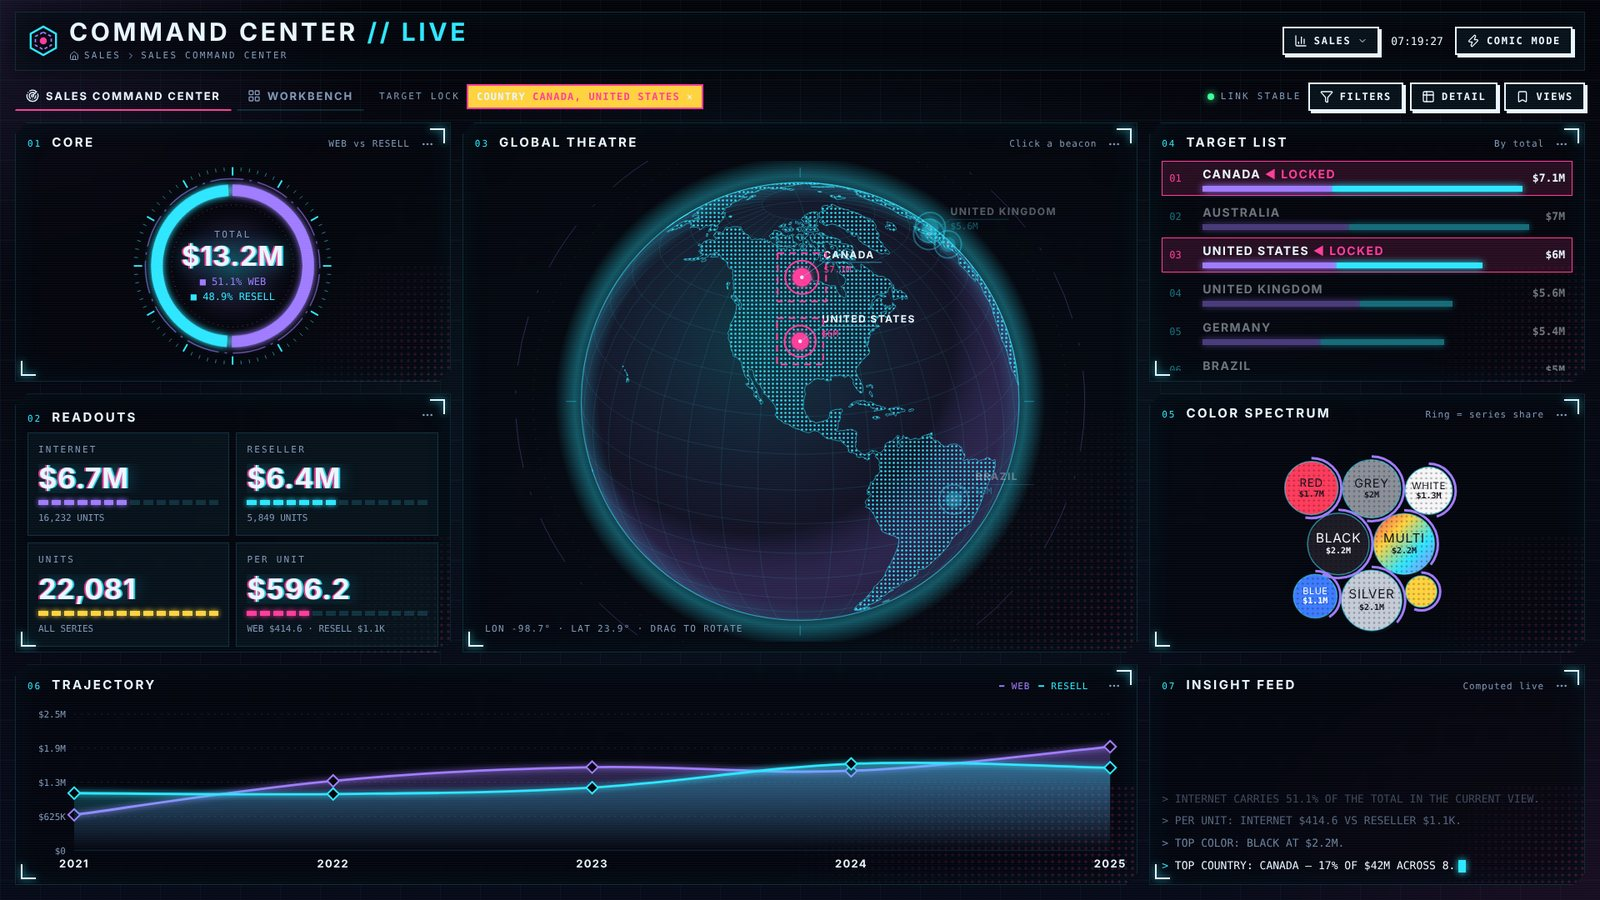
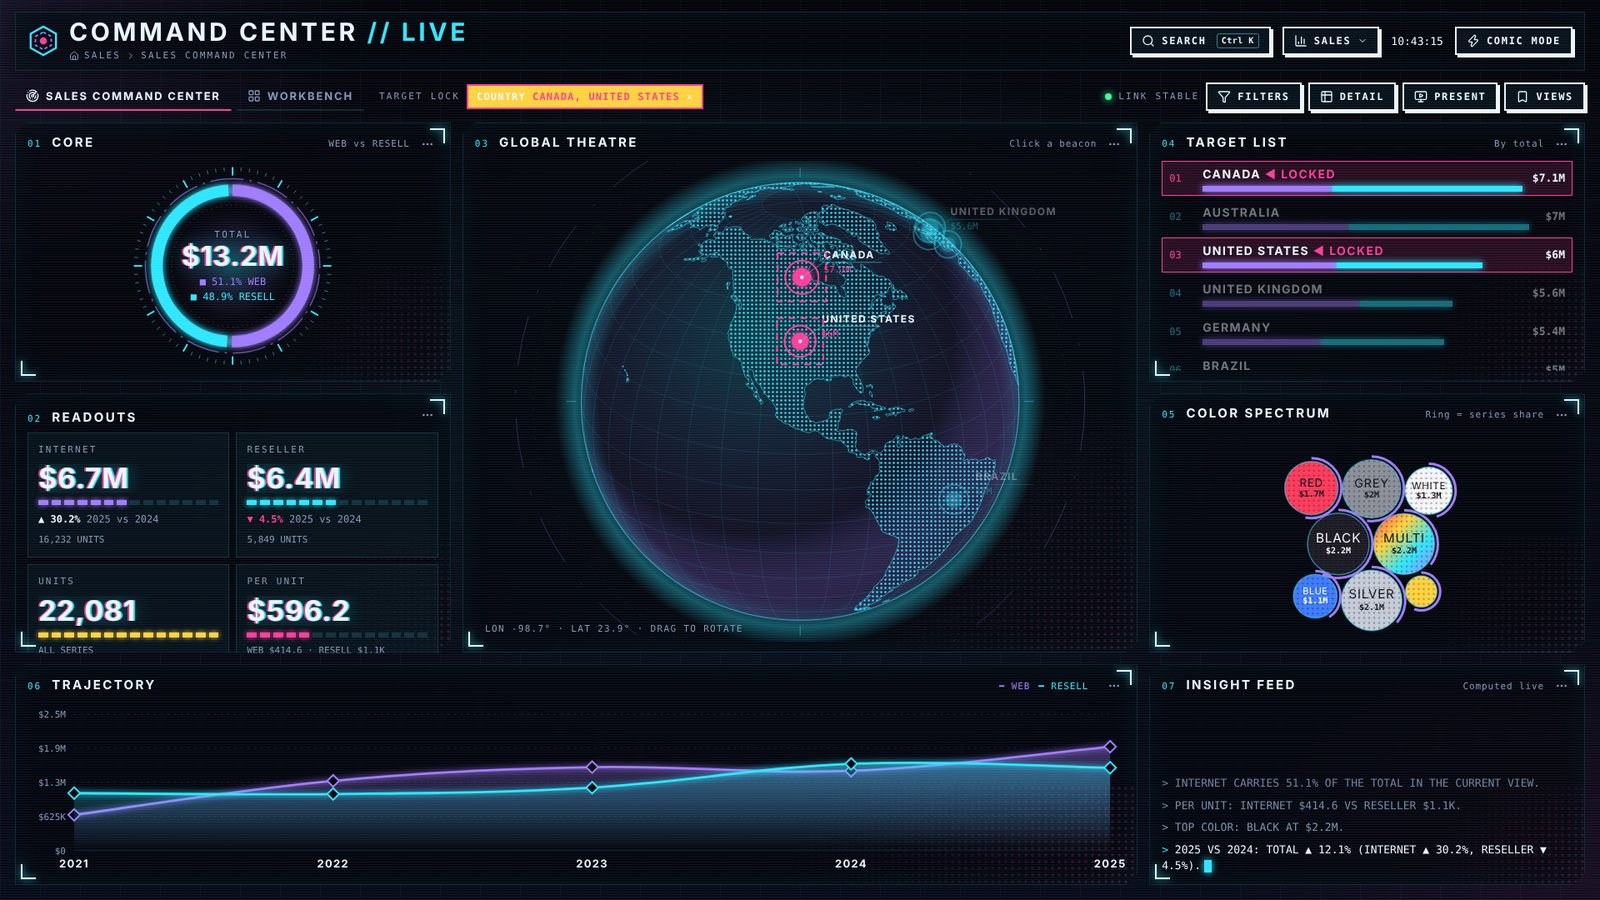
docs: document search, pins, period compare, presentation, setup and Brand Studio
Also refreshes README screenshots, adds the accessibility rule to AGENTS.md
and steadies a sign-out test that timed out on a busy runner.

Claude-Session: https://claude.ai/code/session_013GYUps26ZnsYhT2fRMW2ib

diff --git a/packages/frontend/src/Root.spec.tsx b/packages/frontend/src/Root.spec.tsx
@@ -144,8 +144,9 @@ describe('protected app content with standalone sign-in', () => {
       })
     ).toBeVisible();
     await act(async () => notify?.(null));
+    // Generous timeout: the sign-out re-render can be slow on a busy CI runner.
     expect(
-      await screen.findByRole('button', { name: 'Sign in with Microsoft' })
+      await screen.findByRole('button', { name: 'Sign in with Microsoft' }, { timeout: 5000 })
     ).toBeVisible();
     expect(
       screen.queryByRole('heading', { name: 'Build the app of your dreams' })

diff --git a/packages/frontend/src/hud/hud.css b/packages/frontend/src/hud/hud.css
@@ -611,3 +611,4 @@
 .hud-studio-ratio.is-low { color: var(--hud-hot); font-weight: 700; }
 .hud-studio select.hud-input { appearance: auto; }
 .hud.hud--bare { min-height: 0; background: none; position: static; }
+:root[data-presenting] .fcc-studio-open { display: none; }

diff --git a/README.md b/README.md
@@ -12,6 +12,10 @@ Everything a company changes lives in one folder, [`customize/`](customize). No 
 | --- | --- | --- |
 | ![Admin profile with Fabric admin reports and FUAM](docs/images/launchpad-admin.jpg) | ![The same dashboard in the light comic look](docs/images/hud-comic.jpg) | ![Viewer-built visuals in the workbench](docs/images/workbench.jpg) |
 
+| Search everything (Ctrl+K) | Presentation mode | Brand Studio |
+| --- | --- | --- |
+| ![Command palette searching for FUAM across profiles](docs/images/search.jpg) | ![Presentation mode touring the top countries](docs/images/presentation.jpg) | ![Brand Studio restyling the live app](docs/images/brand-studio.jpg) |
+
 Screenshots use the built-in demo mode, which runs on synthetic data.
 
 ## What you get
@@ -20,14 +24,19 @@ Screenshots use the built-in demo mode, which runs on synthetic data.
 - **Live dashboards on your semantic model.** Every query is generated from a short JSON description of your model, so moving to a new company or model is a config change.
 - **Cross-filtering everywhere.** Click any country, year or category to lock on. Ctrl or Shift + click adds to the selection. Each visual highlights its own selection instead of collapsing.
 - **Filters pane and drill-through.** Multi-select slicers for every dimension, and a sortable detail table behind the current selection with CSV export.
+- **Search everything with Ctrl+K.** Jump to any dashboard, report, link, saved view or profile from anywhere. Pin favourite tiles to the top of every launchpad; recently opened tiles follow you.
 - **Saved and shareable views.** Name a filter state, reopen it later, or share it as a code. Where the Fabric portal supports deep links, the address bar becomes a shareable link and Back and Forward work.
 - **Visual workbench.** Viewers build their own bar, column, line and table visuals from the model's measures and dimensions. They cross-filter like everything else.
 - **Insight to action.** Every panel can export CSV or PNG, copy a summary, or share to Teams or email.
+- **Period over period.** Readouts show the change against the previous year (or the period before the one you picked), and the insight feed calls it out per series.
+- **Presentation mode.** One click runs a full-screen tour of the overview, top markets, top categories and latest period, for wall screens and demos.
 - **Plain-English insights**, computed only from the numbers on screen.
 - **Your brand.** Name, logos, colours, fonts and copy for both looks (dark HUD and light comic) from one file, plus switchable brand packs.
 - **Optional embedded Power BI reports** with the app's filters applied (experimental, off by default).
 - **A doctor** that checks your configuration and can run every generated query against your model before you deploy.
-- **A demo mode** that runs the whole app on synthetic data with no Fabric account, for evaluation and design work.
+- **A demo mode** that runs the whole app on synthetic data with no Fabric account, plus a **Brand Studio** that restyles the live app as you pick colours and fonts and downloads the brand file.
+- **`npm run setup`**: a guided setup that creates the brand, connects the model and proposes the model mapping from the model's own metadata.
+- **Accessible and tested.** Keyboard operable throughout, WCAG 2.1 AA checks in both looks, and end-to-end browser tests on every change.
 
 The feature set follows the scenarios in the [Power BI Embedded playground](https://playground.powerbi.com/) (capture report views, personalize visuals, insights to action, customize colours and mode), rebuilt as a Fabric App on your own data.
 
@@ -42,7 +51,14 @@ npm install
 npm run demo          # try it on synthetic data at http://localhost:5173
 ```
 
-Then connect it to your tenant:
+Then connect it to your tenant. The quickest way is the guided setup:
+
+```bash
+npx rayfin login
+npm run setup         # brand, model link, automatic model mapping, then a full check
+```
+
+Or step by step:
 
 1. **Point it at your model.** Copy `rayfin/.env.example` to `rayfin/.env` and fill in the semantic model's workspace ID and item ID. Edit [`customize/models/sales.json`](customize/models/sales.json) so its measures and columns match your model (`npm run doctor -- --discover` lists them). See [Connect your model](docs/connect-your-model.md).
 2. **Brand it.** Edit [`customize/brand/brand.json`](customize/brand/brand.json) and drop your logos into `customize/brand/`. See [Branding](docs/customize-branding.md).
@@ -69,11 +85,13 @@ If something in `customize/` is wrong, the app shows the exact problems instead 
 
 | Command | What it does |
 | --- | --- |
-| `npm run demo` | Run the app locally on synthetic data, no sign-in |
+| `npm run setup` | Guided setup: brand pack, model IDs, automatic model mapping, then the doctor |
+| `npm run demo` | Run the app locally on synthetic data, no sign-in. Open the Brand Studio from the button at the bottom left |
 | `npm run dev` | Run the app locally against your real model (needs `npx rayfin login`) |
 | `npm run doctor` | Check `customize/`, connectors and brand files. Add `-- --live` to test every query, or `-- --discover` to list your model's tables and measures |
 | `npm run brand -- <pack>` | Make a brand pack from `customize/brands/` the active brand |
 | `npm run check` | Typecheck, lint, test and doctor in one go |
+| `npm run test:e2e` | End-to-end and accessibility tests in a real browser, on the demo build |
 | `npx rayfin up --workspace "<name>"` | Build and deploy to a Fabric workspace |
 
 ## Documentation

diff --git a/docs/features.md b/docs/features.md
@@ -33,8 +33,16 @@ Every panel cross-filters the others. Click to lock onto a value, Ctrl or Shift 
 | `visualBuilder` | Viewers pick a measure, a dimension, a chart type and a top N. Visuals are saved in their browser |
 | `bootSequence` | The short start-up animation |
 | `lockBurst` | The comic burst when something is selected |
+| `periodCompare` | Readouts show the change against the previous period: the period before the one selected, or with nothing selected, the latest period against the one before it. Computed from the trend already on screen, so it costs no extra query |
+| `presentation` | The Present button: a full-screen tour (overview, top 5 markets, top 3 categories, latest period, every 7 seconds). Space pauses, → skips, Esc stops. Full screen is used where the host allows it |
 
 All motion is skipped for people who turn on reduced motion in their system settings.
+
+## Always on
+
+- **Search (Ctrl+K, Cmd+K or /)** finds any tile in any profile, saved views, profiles and actions. Arrow keys and Enter work throughout.
+- **Pins and recents.** The star on a tile pins it to the top of every launchpad; the last tiles opened appear under Recently opened.
+- **Keyboard and screen readers.** Every mark that can be clicked can be focused and pressed with Enter or Space; drawers and search keep focus inside until closed.
 
 ## Share actions (`actions`)
 
@@ -52,4 +60,4 @@ Every panel has a ⋯ menu. These keys control what it offers:
 
 ## Where things are stored
 
-Saved views, workbench visuals, the last profile and the chosen look are stored in each viewer's browser. They do not follow someone to another browser, and clearing site data removes them. Share codes are the way to move a view between people.
+Saved views, workbench visuals, pins, recently opened tiles, the last profile and the chosen look are stored in each viewer's browser. They do not follow someone to another browser, and clearing site data removes them. Share codes are the way to move a view between people.

diff --git a/docs/architecture.md b/docs/architecture.md
@@ -29,7 +29,7 @@ customize/*.json ──► config loader + validation ──► app shell (profi
 | `hud/` | The visuals and the HUD and comic styles |
 | `features/` | Filters pane, drill-through, saved views, workbench, share actions, and the optional embed module |
 | `geo/` | Country name to map position |
-| `demo/` | Synthetic data for `npm run demo`; never part of a Fabric build |
+| `demo/` | Synthetic data and the Brand Studio for `npm run demo`; never part of a Fabric build |
 
 ## Decisions worth knowing
 
@@ -40,6 +40,13 @@ customize/*.json ──► config loader + validation ──► app shell (profi
 - **Optional modules load late.** The embed module, `powerbi-client` and MSAL load only when an embedded report opens; the PNG exporter loads on first export.
 - **No secrets in the repository.** Tenant IDs and model IDs live in git-ignored files.
 
+## Scripts
+
+`scripts/` holds the doctor, setup and brand commands. They run on plain Node and reuse the app's own TypeScript (validation, DAX builder, model proposal) through Node's type stripping, so the command line and the app never disagree.
+
 ## Quality gates
 
-`npm run check` runs the TypeScript typecheck, ESLint, the Vitest suites and the doctor. CI runs the same on every pull request and builds the demo bundle.
+- `npm run check`: TypeScript typecheck, ESLint, the Vitest unit suites and the doctor.
+- `npm run test:e2e`: Playwright tests on the demo build at desktop, laptop and phone sizes, with axe-core WCAG 2.1 AA checks in both looks.
+
+CI runs both on every pull request.

diff --git a/docs/customize-branding.md b/docs/customize-branding.md
@@ -60,6 +60,14 @@ Two packs ship with the project:
 - `default`: the neutral "Command Center" brand.
 - `kratosbi`: the "Data God // Sales Intel" look the project started as.
 
-## Try it without a model
+## Brand Studio
 
-`npm run demo` runs the app on synthetic data and reloads as you save `brand.json`, so you can design a brand before connecting anything.
+`npm run demo` includes a Brand Studio (the button at the bottom left, or open http://localhost:5173/?studio). Pick colours for both looks and the fonts, and the running app behind the panel restyles as you go. Each text colour shows its contrast ratio, and the panel lists anything below WCAG AA. When it looks right, **Download brand.json** and save it as `customize/brand/brand.json` (or into a new pack in `customize/brands/<name>/`), next to your logos.
+
+## Create a brand from the command line
+
+`npm run setup` asks for a name and two brand colours and creates a pack in `customize/brands/<name>/`. It adjusts each colour separately for the dark and light looks so it stays readable as text, then makes the pack active.
+
+## Readability checks
+
+`npm run doctor` warns when `ink`, `dim`, `hot` or a series colour has a contrast ratio below 4.5:1 against either background colour. These are warnings: the app still runs, but some people will struggle to read it.

diff --git a/CHANGELOG.md b/CHANGELOG.md
@@ -4,6 +4,26 @@ All notable changes to this project are listed here. The format follows [Keep a 
 
 ## Unreleased
 
+### Added
+
+- Command palette (Ctrl/Cmd+K or /) across all profiles, saved views and actions; pinned tiles and recently opened tiles on every launchpad.
+- Period-over-period comparison on readouts and in the insight feed (`features.periodCompare`).
+- Presentation mode: a timed, full-screen tour for wall screens and demos (`features.presentation`).
+- `npm run setup`: guided brand, model and mapping setup that proposes `customize/models/*.json` from the model's metadata.
+- Brand Studio in `npm run demo`: live brand editing with contrast checks and brand.json download.
+- End-to-end and accessibility tests (Playwright and axe-core) in CI; `npm run test:e2e`.
+- The doctor warns about brand colours below WCAG AA contrast.
+
+### Changed
+
+- Default and KratosBI comic palettes darkened to meet WCAG AA as text.
+- Dashboards load on first open, so the launchpad appears sooner.
+
+### Fixed
+
+- Drawers no longer pull keyboard focus back on every filter change; focus stays inside drawers and search.
+- Accessible names that hid visible text; interactive marks inside images.
+
 ## 1.0.0 - 2026-11-26
 
 First public release.

diff --git a/AGENTS.md b/AGENTS.md
@@ -10,7 +10,8 @@ This repository is Fabric Command Center, a config-driven Fabric App that many c
 - **No tenant data in the repository.** Workspace, item, tenant and client IDs belong in `rayfin/.env` or `customize/powerbi.local.json`, both git-ignored. Use AdventureWorks or synthetic data in examples, tests and screenshots.
 - **Demo mode stays labelled.** `npm run demo` runs on synthetic data with a visible banner. Never let synthetic data reach a Fabric build.
 - **Profiles are not security.** Do not describe them as access control.
-- **Gates:** `npm run check` (typecheck, lint, test, doctor) and `npm run -w @rayfin-app/frontend build:demo` must pass before a pull request.
+- **Gates:** `npm run check` (typecheck, lint, test, doctor) and `npm run test:e2e` (Playwright and axe on the demo build) must pass before a pull request.
+- **Accessible by default:** new controls need a name containing their visible text, keyboard operation, and WCAG AA contrast in both looks; the e2e suite enforces it.
 
 ## Rayfin template guidance
 

diff --git a/docs/getting-started.md b/docs/getting-started.md
@@ -27,7 +27,17 @@ npx rayfin login
 
 On Windows, the sign-in can print an error after the browser says you are signed in. Run `npx rayfin login` again: if it says you are already signed in, you are.
 
-## 3. Point the app at your semantic model
+## 3. Run the guided setup (recommended)
+
+```bash
+npm run setup
+```
+
+It asks for your company name and two brand colours, and for the semantic model's address (copy it from the browser while the model is open in Fabric). It then reads the model's columns and measures and proposes `customize/models/sales.json` for you: the year column, the country column, a category, and up to two money measures to compare. Finally it runs the doctor against the live model. You can skip any step, and re-run it at any time.
+
+The steps below do the same by hand.
+
+## 3a. Point the app at your semantic model by hand
 
 ```bash
 cp rayfin/.env.example rayfin/.env      # Windows: copy rayfin\.env.example rayfin\.env

diff --git a/docs/connect-your-model.md b/docs/connect-your-model.md
@@ -85,6 +85,10 @@ For `category`, set `"colorNames": true` when the members are colour names, and 
 - `detail.columns` are the rows of the drill-through table (up to `maxRows`, at most 5,000).
 - `extraMeasures` are offered in the visual workbench next to the series.
 
+## Let setup propose it
+
+`npm run setup` reads the model's visible columns and measures and writes a first version of this file. It prefers a calendar year column, a country column, a product category, and measures named like sales, revenue or amount (skipping year-to-date and percentage measures). If the model has no measures, it sums fact columns such as `SalesAmount`. It prints every choice so you can see why, then you edit labels and anything it guessed wrong.
+
 ## Find the right names
 
 ```bash

diff --git a/docs/rollout-playbook.md b/docs/rollout-playbook.md
@@ -34,6 +34,12 @@ npm run doctor -- --live
 npx rayfin up --workspace "<unit workspace>"
 ```
 
+## The fastest path for a new company
+
+1. `npm run demo`, open the Brand Studio with the client, and download their `brand.json`.
+2. `npx rayfin login`, then `npm run setup` with their name and model address.
+3. Fill in the Admin profile's report IDs, then `npm run doctor -- --live` and deploy.
+
 ## A first-week checklist for each company
 
 - [ ] A Fabric workspace for the app, on a capacity, with Fabric Apps (preview) enabled.
